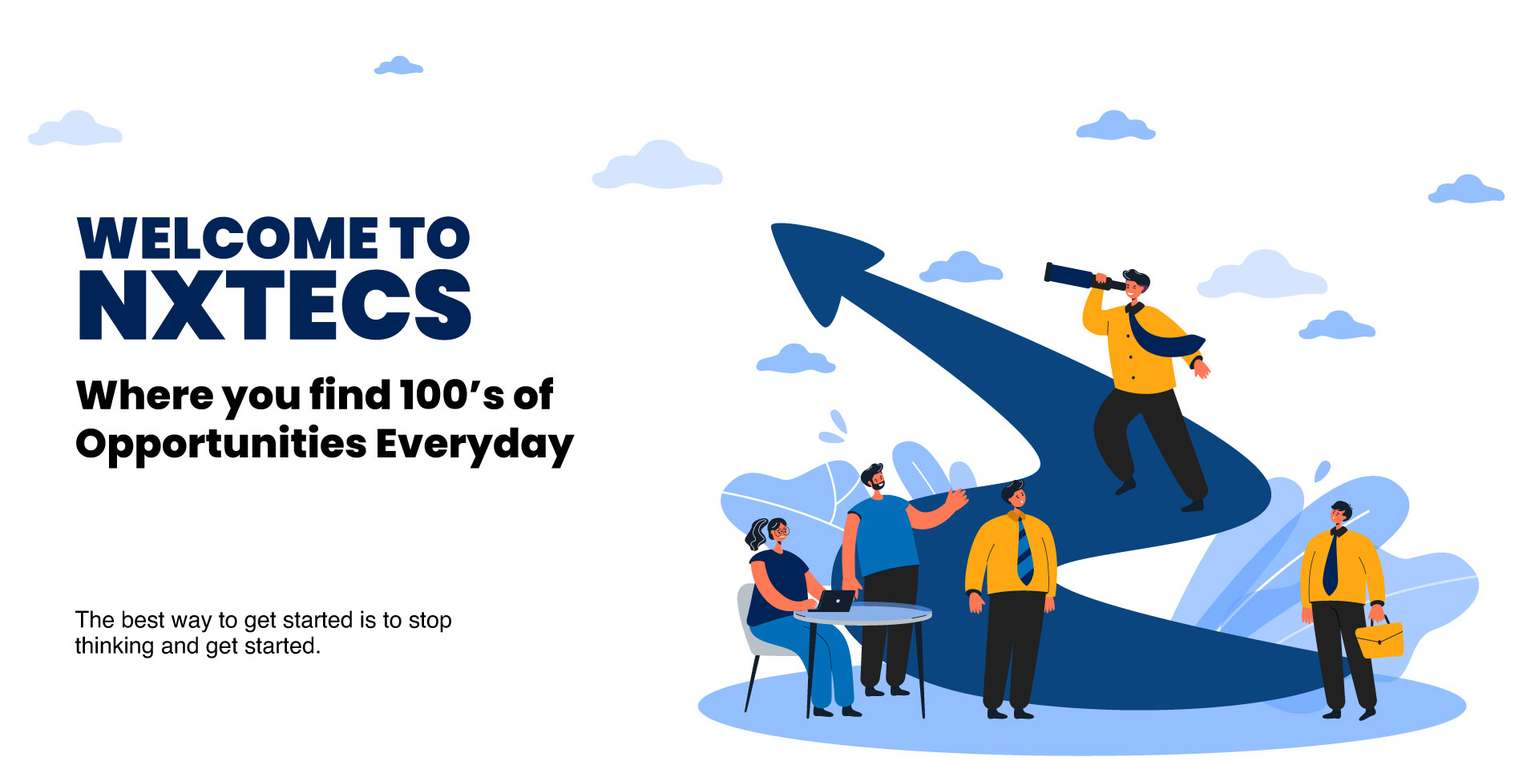
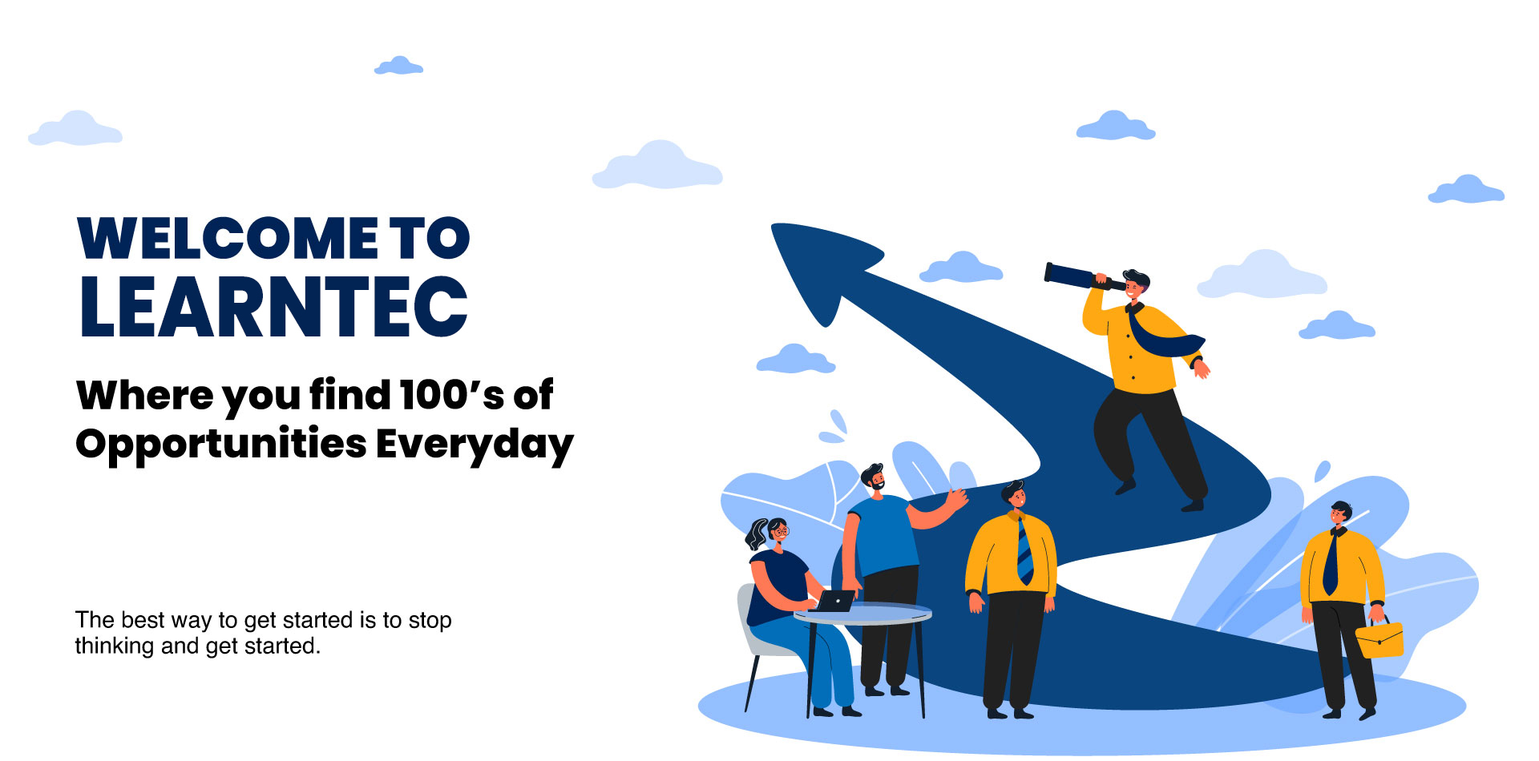
done

Changed region(s): [[0.0312, 0.3358, 0.3125, 0.4579]]

diff --git a/learntec/index.html b/learntec/index.html
@@ -28,8 +28,8 @@
 
 <body>
     <a href="#" class="float"> <img src="./whatsapp.png" alt="">
-       <!-- <i class="fa fa-whatsapp my-float"></i> -->
-        </a>
+        <!-- <i class="fa fa-whatsapp my-float"></i> -->
+    </a>
     <!-- header-start -->
     <header class="header-transparent">
         <div id="sticky-header" class="main-menu-area menu-padding pl-55 pr-55">
@@ -74,10 +74,15 @@
                     <div class="col-xl-3 col-lg-5 col-md-6 col-4">
                         <div class="header-right d-sm-flex align-items-center justify-content-end">
                             <div class="footer-social-icon d-none d-md-inline-block">
-                                <a class="fot-fb active" href="#"><img src="Facebook-Splash-Icon-PNG-S-09idfd.png" alt="" style="height: 40px; width: 40px;"></a>
-                                <a class="fot-twitter" href="#"><!--<i class="fab fa-twitter"></i>--><img src="Twitter-Splash-Icon-PNG-S-09idfd.png" alt="" style="height: 40px; width: 40px;"></a>
-                                <a class="fot-google" href="#"><img src="YouTube-Splash-Icon-PNG-S-09idfd.png" alt="" style="height: 40px; width: 40px;"></a>
-                                <a class="fot-insta" href="#"><img src="Instagram-Splash-Icon-PNG-S-09idfd.png" alt="" style="height: 40px; width: 40px;"></a>
+                                <a class="fot-fb active" href="#"><img src="Facebook-Splash-Icon-PNG-S-09idfd.png"
+                                        alt="" style="height: 40px; width: 40px;"></a>
+                                <a class="fot-twitter" href="#"><!--<i class="fab fa-twitter"></i>--><img
+                                        src="Twitter-Splash-Icon-PNG-S-09idfd.png" alt=""
+                                        style="height: 40px; width: 40px;"></a>
+                                <a class="fot-google" href="#"><img src="YouTube-Splash-Icon-PNG-S-09idfd.png" alt=""
+                                        style="height: 40px; width: 40px;"></a>
+                                <a class="fot-insta" href="#"><img src="Instagram-Splash-Icon-PNG-S-09idfd.png" alt=""
+                                        style="height: 40px; width: 40px;"></a>
                             </div> &nbsp;&nbsp;&nbsp;&nbsp;&nbsp;
                             <!--<div class="header-sing d-none d-md-inline-block">
                                 <a href="contact.html"> <i class="far fa-user-circle"></i>sing in</a>
@@ -129,7 +134,7 @@
         <nav class="side-mobile-menu">
             <ul id="mobile-menu-active">
                 <li class="active"><a href="index.html">Home</a></li>
-                <li ><a href="about_us.html">About Us</a></li>
+                <li><a href="about_us.html">About Us</a></li>
                 <!--    <li><a href="course.html">Courses</a></li> -->
 
                 <li class="active"><a href="#">Skills <i class="far fa-angle-right"></i></a>
@@ -219,34 +224,48 @@
                 <div class="col-xl-6 col-lg-6 ">
                     <div class="lg-btn1 lg-btn-03 text-center">
                         <a class="c-btn" onclick="document.getElementById('id01').style.display='block'"
-                            style="background-color: #002356;  color: white; padding-top: 21px; height: 75px;"
-                            href="#"> Click here to get free career Counselling</a>
+                            style="background-color: #002356;  color: white; padding-top: 21px; height: 75px;" href="#">
+                            Click here to get free career Counselling
+                        </a>
 
 
-                            <div id="id01" class="modal">
-                                <span onclick="document.getElementById('id01').style.display='none'" class="close"
-                                    title="Close Modal">&times;</span>
-                                <form class="modal-content" action="/action_page.php" style="text-align: left; width: 500PX;">
-                                    <div class="container">
-                                        <a href="index.html"><i class="fas fa-times"
-                                            style="color: BLACK;"></i></a>
-                                        
-                                        <!--<p>Please fill in this form to create an account.<p>-->
-                                        <hr>
-                                        <label for="name"><b>Name</b></label>
-                                        <input type="text" placeholder="Enter Name" name="name" required>
+                        <div id="id01" class="modal" style="z-index: 999; height: 800px;">
+                            <span onclick="document.getElementById('id01').style.display='none'" class=""
+                                title=""></span>
+                            <form class="modal-content" action="/action_page.php"
+                                style="text-align: left; width: 500PX;">
+                                <div class="container">
+                                    <a href="index.html"><i class="fas fa-times" style="color: BLACK;"></i></a>
 
-                                        <label for="phone"><b>Mobile number</b></label>
-                                        <input type="tel" placeholder="Enter Mobile number" name="phone"
-                                            pattern="[0-9]{10}" required>
+                                    <!--<p>Please fill in this form to create an account.<p>-->
+                                    <hr>
+                                    <label for="name"><b>Name</b></label>
+                                    <input type="text" placeholder="Enter Name" name="name" required>
 
-                                        <label for="email"><b>Email</b></label>
-                                        <input type="email" placeholder="Enter your email" name="email" required>
-                                        
-                                        <label for="email"><b>Courses want to know</b></label>
-                                        <input type="text" placeholder="Enter Course name" name="text" required>
-                                            <br>
-                                        <!-- <label>
+                                    <label for="phone"><b>Mobile number</b></label>
+                                    <input type="tel" placeholder="Enter Mobile number" name="phone" pattern="[0-9]{10}"
+                                        required>
+
+                                    <label for="email"><b>Email</b></label>
+                                    <input type="email" placeholder="Enter your email" name="email" required>
+
+                                    <label for="email"><b>City</b></label>
+                                    <input type="text" placeholder="Enter City name" name="text" required>
+                                    <br>
+
+                                    <label for="address"><b>Courses</b></label> <br>
+                                            <select type="address" name="address" required
+                                                style="width: 300px !important;">
+                                                <option selected value="1">please select course</option>
+                                                <option value="2">DevOps</option>
+                                                <option value="2">AEM</option>
+                                                <option value="2">Cyber Security</option>
+                                                <option value="2">Python</option>
+                                                <option value="2">Data Analyst</option>
+                                            </select> <br><br>
+
+                                    
+                                    <!-- <label>
                                             <input type="checkbox" checked="checked" name="remember"
                                                 style="margin-bottom:15px"> Remember me
                                         </label>
@@ -254,22 +273,22 @@
                                         <p>By creating an account you agree to our <a href="#"
                                                 style="color:dodgerblue">Terms & Privacy</a>.</p>-->
 
-                                        
-                                            <button type="submit" class="Confirmbtn" style="height: 50px;">Submit</button>
-                                        </div>
-                                    </div>
-                                </form>
-                            </div>
 
-
-
-
-
-
-
+                                    <button type="submit" class="Confirmbtn" style="height: 50px;">Submit</button>
+                                </div>
+                        </div>
+                        </form>
                     </div>
+
+
+
+
+
+
+
                 </div>
             </div>
+        </div>
         </div>
 
         <!-- counter-area-start -->
@@ -330,95 +349,131 @@
 
         <marquee behavior="scroll" direction="left">
             <div style="display: flex;">
-                
+
                 <!-- <div style="width: 300px; display: block;">
                     <a href=""> <img src=""
                             alt=""> devops</a>
                 </div> -->
                 <div class="lg-btn1 lg-btn-03 text-center">
-                    
-                    <a class="c-btn" style="background-color: #ffffff; height: 75px; color: rgb(16, 15, 15); padding-top: 18px; border-radius: 10px; font-size:  22px; padding: 10px;"
-                        href="devops.html"><img src="./devops.jpg"  style="height: 50px; width: 80px; " alt=""> DEVOPS</a>
+
+                    <a class="c-btn"
+                        style="background-color: #ffffff; height: 75px; color: rgb(16, 15, 15); padding-top: 18px; border-radius: 10px; font-size:  22px; padding: 10px;"
+                        href="devops.html"><img src="./devops.jpg" style="height: 50px; width: 80px; " alt="">
+                        DEVOPS</a>
                 </div> &nbsp; &nbsp;&nbsp;
                 <div class="lg-btn1 lg-btn-03 text-center">
-                    <a class="c-btn" style="background-color: #ffffff; height: 75px; color: rgb(16, 15, 15); padding-top: 18px; border-radius: 10px; font-size: 22px; padding: 10px;"
+                    <a class="c-btn"
+                        style="background-color: #ffffff; height: 75px; color: rgb(16, 15, 15); padding-top: 18px; border-radius: 10px; font-size: 22px; padding: 10px;"
                         href="ae.html"><img src="./aem.png" style="height: 45px; width: 45px; " alt=""> AEM</a>
-                </div>  &nbsp; &nbsp;&nbsp;
+                </div> &nbsp; &nbsp;&nbsp;
                 <div class="lg-btn1 lg-btn-03 text-center">
-                    <a class="c-btn" style="background-color: #ffffff; height: 75px; color: rgb(16, 15, 15); padding-top: 18px; border-radius: 10px; font-size: 22px; padding: 10px;"
-                        href="cybersecurity.html"> <img src="./security.png" style="height: 45px; width: 55px; " alt=""> CYBER SECURITY</a>
-                </div>  &nbsp; &nbsp;&nbsp;
+                    <a class="c-btn"
+                        style="background-color: #ffffff; height: 75px; color: rgb(16, 15, 15); padding-top: 18px; border-radius: 10px; font-size: 22px; padding: 10px;"
+                        href="cybersecurity.html"> <img src="./security.png" style="height: 45px; width: 55px; " alt="">
+                        CYBER SECURITY</a>
+                </div> &nbsp; &nbsp;&nbsp;
                 <div class="lg-btn1 lg-btn-03 text-center">
-                    <a class="c-btn" style="background-color: #ffffff; height: 75px; color: rgb(16, 15, 15); padding-top: 18px; border-radius: 10px; font-size: 22px; padding: 10px;"
-                        href="python.html"><img src="./python.png" style="height: 45px; width: 45px; " alt=""> PYTHON</a>
-                </div>  &nbsp; &nbsp;&nbsp;
+                    <a class="c-btn"
+                        style="background-color: #ffffff; height: 75px; color: rgb(16, 15, 15); padding-top: 18px; border-radius: 10px; font-size: 22px; padding: 10px;"
+                        href="python.html"><img src="./python.png" style="height: 45px; width: 45px; " alt="">
+                        PYTHON</a>
+                </div> &nbsp; &nbsp;&nbsp;
                 <div class="lg-btn1 lg-btn-03 text-center">
-                    <a class="c-btn" style="background-color: #ffffff; height: 75px; color: rgb(16, 15, 15); padding-top: 18px; border-radius: 10px; font-size:  22px; padding: 10px;"
-                        href="dataanalyst.html"> <img src="./analytics.png" style="height: 45px; width: 45px; " alt=""> DATA  ANALYTICS</a>
-                </div>  &nbsp; &nbsp;&nbsp;
+                    <a class="c-btn"
+                        style="background-color: #ffffff; height: 75px; color: rgb(16, 15, 15); padding-top: 18px; border-radius: 10px; font-size:  22px; padding: 10px;"
+                        href="dataanalyst.html"> <img src="./analytics.png" style="height: 45px; width: 45px; " alt="">
+                        DATA ANALYTICS</a>
+                </div> &nbsp; &nbsp;&nbsp;
                 <div class="lg-btn1 lg-btn-03 text-center">
-                    
-                    <a class="c-btn" style="background-color: #ffffff; height: 75px; color: rgb(16, 15, 15); padding-top: 18px; border-radius: 10px; font-size:  22px; padding: 10px;"
-                        href="devops.html"><img src="./devops.jpg"  style="height: 50px; width: 80px; " alt=""> DEVOPS</a>
-                </div>  &nbsp; &nbsp;&nbsp;
+
+                    <a class="c-btn"
+                        style="background-color: #ffffff; height: 75px; color: rgb(16, 15, 15); padding-top: 18px; border-radius: 10px; font-size:  22px; padding: 10px;"
+                        href="devops.html"><img src="./devops.jpg" style="height: 50px; width: 80px; " alt="">
+                        DEVOPS</a>
+                </div> &nbsp; &nbsp;&nbsp;
                 <div class="lg-btn1 lg-btn-03 text-center">
-                    <a class="c-btn" style="background-color: #ffffff; height: 75px; color: rgb(16, 15, 15); padding-top: 18px; border-radius: 10px; font-size: 22px; padding: 10px;"
+                    <a class="c-btn"
+                        style="background-color: #ffffff; height: 75px; color: rgb(16, 15, 15); padding-top: 18px; border-radius: 10px; font-size: 22px; padding: 10px;"
                         href="ae.html"><img src="./aem.png" style="height: 45px; width: 45px; " alt=""> AEM</a>
-                </div>  &nbsp; &nbsp;&nbsp;
+                </div> &nbsp; &nbsp;&nbsp;
                 <div class="lg-btn1 lg-btn-03 text-center">
-                    <a class="c-btn" style="background-color: #ffffff; height: 75px; color: rgb(16, 15, 15); padding-top: 18px; border-radius: 10px; font-size: 22px; padding: 10px;"
-                        href="cybersecurity.html"> <img src="./security.png" style="height: 45px; width: 55px; " alt=""> CYBER SECURITY</a>
-                </div>  &nbsp; &nbsp;&nbsp;
+                    <a class="c-btn"
+                        style="background-color: #ffffff; height: 75px; color: rgb(16, 15, 15); padding-top: 18px; border-radius: 10px; font-size: 22px; padding: 10px;"
+                        href="cybersecurity.html"> <img src="./security.png" style="height: 45px; width: 55px; " alt="">
+                        CYBER SECURITY</a>
+                </div> &nbsp; &nbsp;&nbsp;
                 <div class="lg-btn1 lg-btn-03 text-center">
-                    <a class="c-btn" style="background-color: #ffffff; height: 75px; color: rgb(16, 15, 15); padding-top: 18px; border-radius: 10px; font-size: 22px; padding: 10px;"
-                        href="python.html"><img src="./python.png" style="height: 45px; width: 45px; " alt=""> PYTHON</a>
-                </div>  &nbsp; &nbsp;&nbsp;
+                    <a class="c-btn"
+                        style="background-color: #ffffff; height: 75px; color: rgb(16, 15, 15); padding-top: 18px; border-radius: 10px; font-size: 22px; padding: 10px;"
+                        href="python.html"><img src="./python.png" style="height: 45px; width: 45px; " alt="">
+                        PYTHON</a>
+                </div> &nbsp; &nbsp;&nbsp;
                 <div class="lg-btn1 lg-btn-03 text-center">
-                    <a class="c-btn" style="background-color: #ffffff; height: 75px; color: rgb(16, 15, 15); padding-top: 18px; border-radius: 10px; font-size:  22px; padding: 10px;"
-                        href="dataanalyst.html"> <img src="./analytics.png" style="height: 45px; width: 45px; " alt=""> DATA  ANALYTICS</a>
-                </div>  &nbsp; &nbsp;&nbsp;
+                    <a class="c-btn"
+                        style="background-color: #ffffff; height: 75px; color: rgb(16, 15, 15); padding-top: 18px; border-radius: 10px; font-size:  22px; padding: 10px;"
+                        href="dataanalyst.html"> <img src="./analytics.png" style="height: 45px; width: 45px; " alt="">
+                        DATA ANALYTICS</a>
+                </div> &nbsp; &nbsp;&nbsp;
                 <div class="lg-btn1 lg-btn-03 text-center">
-                    
-                    <a class="c-btn" style="background-color: #ffffff; height: 75px; color: rgb(16, 15, 15); padding-top: 18px; border-radius: 10px; font-size:  22px; padding: 10px;"
-                        href="devops.html"><img src="./devops.jpg"  style="height: 50px; width: 80px; " alt=""> DEVOPS</a>
-                </div>  &nbsp; &nbsp;&nbsp;
+
+                    <a class="c-btn"
+                        style="background-color: #ffffff; height: 75px; color: rgb(16, 15, 15); padding-top: 18px; border-radius: 10px; font-size:  22px; padding: 10px;"
+                        href="devops.html"><img src="./devops.jpg" style="height: 50px; width: 80px; " alt="">
+                        DEVOPS</a>
+                </div> &nbsp; &nbsp;&nbsp;
                 <div class="lg-btn1 lg-btn-03 text-center">
-                    <a class="c-btn" style="background-color: #ffffff; height: 75px; color: rgb(16, 15, 15); padding-top: 18px; border-radius: 10px; font-size: 22px; padding: 10px;"
+                    <a class="c-btn"
+                        style="background-color: #ffffff; height: 75px; color: rgb(16, 15, 15); padding-top: 18px; border-radius: 10px; font-size: 22px; padding: 10px;"
                         href="ae.html"><img src="./aem.png" style="height: 45px; width: 45px; " alt=""> AEM</a>
-                </div>  &nbsp; &nbsp;&nbsp;
+                </div> &nbsp; &nbsp;&nbsp;
                 <div class="lg-btn1 lg-btn-03 text-center">
-                    <a class="c-btn" style="background-color: #ffffff; height: 75px; color: rgb(16, 15, 15); padding-top: 18px; border-radius: 10px; font-size: 22px; padding: 10px;"
-                        href="cybersecurity.html"> <img src="./security.png" style="height: 45px; width: 55px; " alt=""> CYBER SECURITY</a>
-                </div>  &nbsp; &nbsp;&nbsp;
+                    <a class="c-btn"
+                        style="background-color: #ffffff; height: 75px; color: rgb(16, 15, 15); padding-top: 18px; border-radius: 10px; font-size: 22px; padding: 10px;"
+                        href="cybersecurity.html"> <img src="./security.png" style="height: 45px; width: 55px; " alt="">
+                        CYBER SECURITY</a>
+                </div> &nbsp; &nbsp;&nbsp;
                 <div class="lg-btn1 lg-btn-03 text-center">
-                    <a class="c-btn" style="background-color: #ffffff; height: 75px; color: rgb(16, 15, 15); padding-top: 18px; border-radius: 10px; font-size: 22px; padding: 10px;"
-                        href="python.html"><img src="./python.png" style="height: 45px; width: 45px; " alt=""> PYTHON</a>
-                </div>  &nbsp; &nbsp;&nbsp;
+                    <a class="c-btn"
+                        style="background-color: #ffffff; height: 75px; color: rgb(16, 15, 15); padding-top: 18px; border-radius: 10px; font-size: 22px; padding: 10px;"
+                        href="python.html"><img src="./python.png" style="height: 45px; width: 45px; " alt="">
+                        PYTHON</a>
+                </div> &nbsp; &nbsp;&nbsp;
                 <div class="lg-btn1 lg-btn-03 text-center">
-                    <a class="c-btn" style="background-color: #ffffff; height: 75px; color: rgb(16, 15, 15); padding-top: 18px; border-radius: 10px; font-size:  22px; padding: 10px;"
-                        href="dataanalyst.html"> <img src="./analytics.png" style="height: 45px; width: 45px; " alt=""> DATA  ANALYTICS</a>
-                </div>  &nbsp; &nbsp;&nbsp;
+                    <a class="c-btn"
+                        style="background-color: #ffffff; height: 75px; color: rgb(16, 15, 15); padding-top: 18px; border-radius: 10px; font-size:  22px; padding: 10px;"
+                        href="dataanalyst.html"> <img src="./analytics.png" style="height: 45px; width: 45px; " alt="">
+                        DATA ANALYTICS</a>
+                </div> &nbsp; &nbsp;&nbsp;
                 <div class="lg-btn1 lg-btn-03 text-center">
-                    
-                    <a class="c-btn" style="background-color: #ffffff; height: 75px; color: rgb(16, 15, 15); padding-top: 18px; border-radius: 10px; font-size:  22px; padding: 10px;"
-                        href="devops.html"><img src="./devops.jpg" style="height: 50px; width: 80px; " alt=""> DEVOPS</a>
-                </div>  &nbsp; &nbsp;&nbsp;
+
+                    <a class="c-btn"
+                        style="background-color: #ffffff; height: 75px; color: rgb(16, 15, 15); padding-top: 18px; border-radius: 10px; font-size:  22px; padding: 10px;"
+                        href="devops.html"><img src="./devops.jpg" style="height: 50px; width: 80px; " alt="">
+                        DEVOPS</a>
+                </div> &nbsp; &nbsp;&nbsp;
                 <div class="lg-btn1 lg-btn-03 text-center">
-                    <a class="c-btn" style="background-color: #ffffff; height: 75px; color: rgb(16, 15, 15); padding-top: 18px; border-radius: 10px; font-size: 22px; padding: 10px;"
+                    <a class="c-btn"
+                        style="background-color: #ffffff; height: 75px; color: rgb(16, 15, 15); padding-top: 18px; border-radius: 10px; font-size: 22px; padding: 10px;"
                         href="ae.html"><img src="./aem.png" style="height: 45px; width: 45px; " alt=""> AEM</a>
-                </div>  &nbsp; &nbsp;&nbsp;
+                </div> &nbsp; &nbsp;&nbsp;
                 <div class="lg-btn1 lg-btn-03 text-center">
-                    <a class="c-btn" style="background-color: #ffffff; height: 75px; color: rgb(16, 15, 15); padding-top: 18px; border-radius: 10px; font-size: 22px; padding: 10px;"
-                        href="cybersecurity.html"> <img src="./security.png" style="height: 45px; width: 55px; " alt=""> CYBER SECURITY</a>
-                </div>  &nbsp; &nbsp;&nbsp;
+                    <a class="c-btn"
+                        style="background-color: #ffffff; height: 75px; color: rgb(16, 15, 15); padding-top: 18px; border-radius: 10px; font-size: 22px; padding: 10px;"
+                        href="cybersecurity.html"> <img src="./security.png" style="height: 45px; width: 55px; " alt="">
+                        CYBER SECURITY</a>
+                </div> &nbsp; &nbsp;&nbsp;
                 <div class="lg-btn1 lg-btn-03 text-center">
-                    <a class="c-btn" style="background-color: #ffffff; height: 75px; color: rgb(16, 15, 15); padding-top: 18px; border-radius: 10px; font-size: 22px; padding: 10px;"
-                        href="python.html"><img src="./python.png" style="height: 45px; width: 45px; " alt=""> PYTHON</a>
-                </div>  &nbsp; &nbsp;&nbsp;
+                    <a class="c-btn"
+                        style="background-color: #ffffff; height: 75px; color: rgb(16, 15, 15); padding-top: 18px; border-radius: 10px; font-size: 22px; padding: 10px;"
+                        href="python.html"><img src="./python.png" style="height: 45px; width: 45px; " alt="">
+                        PYTHON</a>
+                </div> &nbsp; &nbsp;&nbsp;
                 <div class="lg-btn1 lg-btn-03 text-center">
-                    <a class="c-btn" style="background-color: #ffffff; height: 75px; color: rgb(16, 15, 15); padding-top: 18px; border-radius: 10px; font-size:  22px; padding: 10px;"
-                        href="dataanalyst.html"> <img src="./analytics.png" style="height: 45px; width: 45px; " alt=""> DATA  ANALYTICS</a>
-                </div> 
+                    <a class="c-btn"
+                        style="background-color: #ffffff; height: 75px; color: rgb(16, 15, 15); padding-top: 18px; border-radius: 10px; font-size:  22px; padding: 10px;"
+                        href="dataanalyst.html"> <img src="./analytics.png" style="height: 45px; width: 45px; " alt="">
+                        DATA ANALYTICS</a>
+                </div>
 
             </div>
         </marquee>
@@ -1011,7 +1066,7 @@
                                     <p>
                                         BANGALORE <br>
                                         KARNATAKA, INDIA<br><br>
-                                        <strong>Phone:</strong> +91 7975935848,  <br>
+                                        <strong>Phone:</strong> +91 7975935848, <br>
                                         <strong>Email:</strong> info@Learntec.com<br>
                                     </p>
 
@@ -1070,10 +1125,14 @@
 
                 <div class="container1">
                     <div class="footer-social-icon text-right ">
-                        <a class="fot-fb active" href="#"><img src="Facebook-Splash-Icon-PNG-S-09idfd.png" alt="" style="height: 40px; width: 40px;"> Facebook</a>
-                        <a class="fot-twitter" href="#"><img src="Twitter-Splash-Icon-PNG-S-09idfd.png" alt="" style="height: 40px; width: 40px;"> Twitter</a>
-                        <a class="fot-google" href="#"><img src="YouTube-Splash-Icon-PNG-S-09idfd.png" alt="" style="height: 40px; width: 40px;"> Youtube</a>
-                        <a class="fot-insta" href="#"><img src="Instagram-Splash-Icon-PNG-S-09idfd.png" alt="" style="height: 40px; width: 40px;"> Instagram</a>
+                        <a class="fot-fb active" href="#"><img src="Facebook-Splash-Icon-PNG-S-09idfd.png" alt=""
+                                style="height: 40px; width: 40px;"> Facebook</a>
+                        <a class="fot-twitter" href="#"><img src="Twitter-Splash-Icon-PNG-S-09idfd.png" alt=""
+                                style="height: 40px; width: 40px;"> Twitter</a>
+                        <a class="fot-google" href="#"><img src="YouTube-Splash-Icon-PNG-S-09idfd.png" alt=""
+                                style="height: 40px; width: 40px;"> Youtube</a>
+                        <a class="fot-insta" href="#"><img src="Instagram-Splash-Icon-PNG-S-09idfd.png" alt=""
+                                style="height: 40px; width: 40px;"> Instagram</a>
                     </div>
                     <br>
                 </div>

diff --git a/learntec/assets/css/nice-select.css b/learntec/assets/css/nice-select.css
@@ -117,8 +117,8 @@
     list-style: none;
     min-height: 40px;
     outline: none;
-    padding-left: 18px;
-    padding-right: 625px;
+    padding-left: 16px;
+    padding-right: 333px;
     text-align: left;
     -webkit-transition: all 0.2s;
     transition: all 0.2s; }
